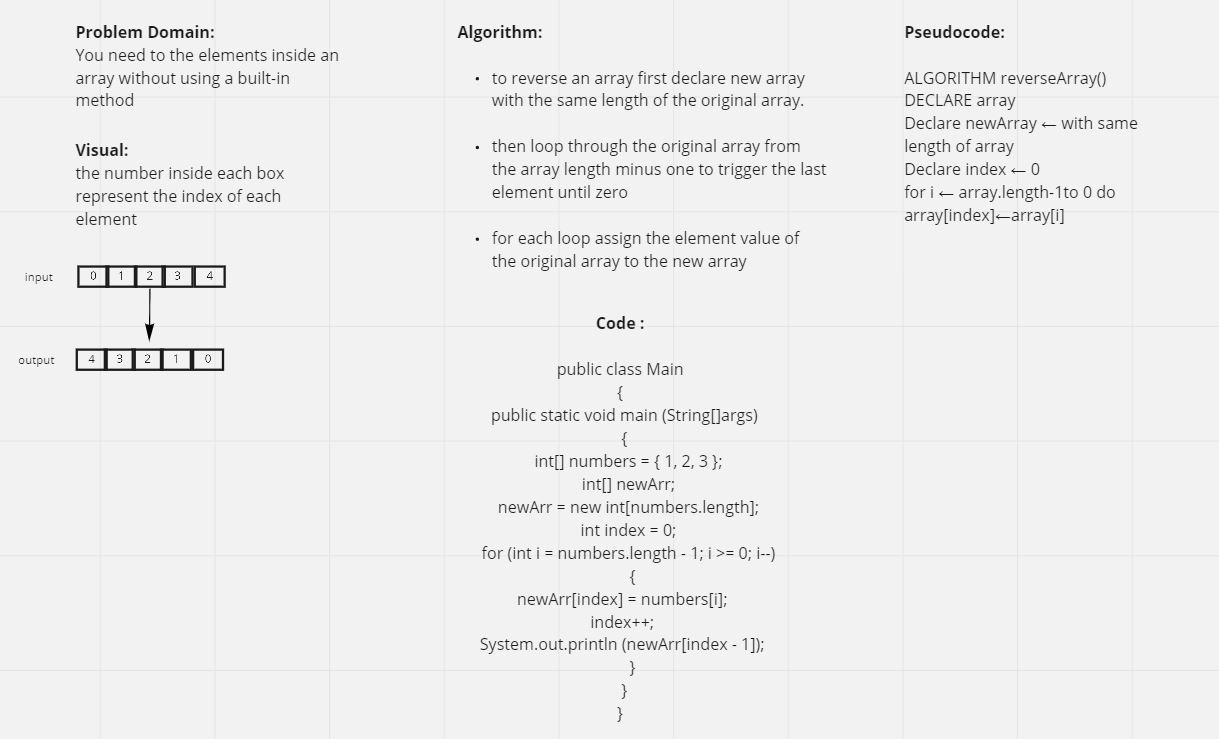
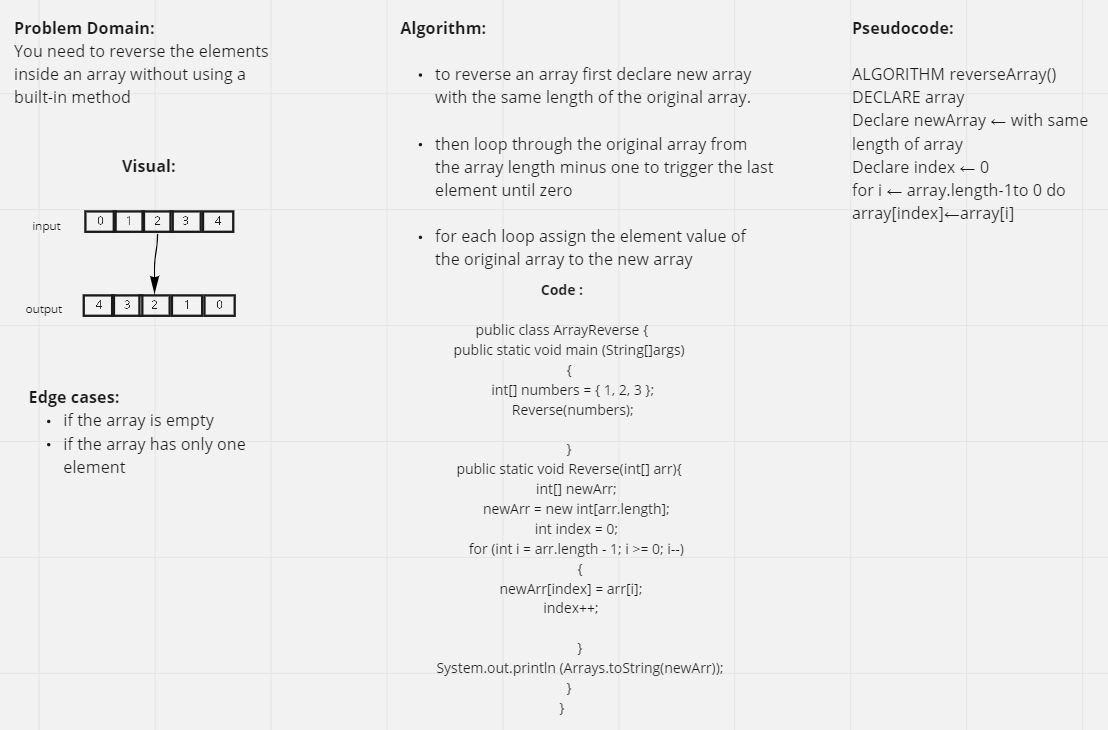
edit array-reverse

diff --git a/challenges/interview/interview.java b/challenges/interview/interview.java
@@ -1,0 +1,38 @@
+package challenges.interview;
+
+import java.util.Arrays;
+
+public class interview {
+    public static void main(String[] args) {
+        Fib(10);
+        System.out.println(FibRurusive(10)); 
+    }
+
+    public static void Fib(int num){
+        int[] arr= new int[num+1];
+        arr[0]=0;
+        arr[1]=1;
+        for(int i=0;i<=num;i++){
+if(i<num-1){ arr[i+2]=arr[i]+arr[i+1];}
+        }
+        System.out.print(arr[num]);
+    }
+    static int nth=0;
+    static int n1=0;
+    static int n2=1;
+    public static int FibRurusive(int n){
+        
+        if(n>1){
+nth=n1+n2;
+n1=n2;
+n2=nth;
+FibRurusive(n-1);
+return nth;
+        }
+        else if(n==1){
+return 1;
+        } 
+        return 0;
+    }
+    
+}

diff --git a/challenges/ArrayReverse/ArrayReverse.java b/challenges/ArrayReverse/ArrayReverse.java
@@ -1,0 +1,25 @@
+package challenges.ArrayReverse;
+
+import java.util.Arrays;
+
+public class ArrayReverse {
+    public static void main (String[]args)
+    {
+      int[] numbers = { 1, 2, 3 };
+      Reverse(numbers);
+     
+    }
+    public static void Reverse(int[] arr){
+        int[] newArr;
+        newArr = new int[arr.length];
+        int index = 0;
+        for (int i = arr.length - 1; i >= 0; i--)
+          {
+     newArr[index] = arr[i];
+     index++;
+  
+          }
+          System.out.println (Arrays.toString(newArr));
+    }
+}
+

diff --git a/README.md b/README.md
@@ -2,4 +2,4 @@
 
 ## Table of content
 
-* [Array Reverse](challenges/ArrayReverse/README)
+* [Array Reverse](challenges/ArrayReverse/README.md)
